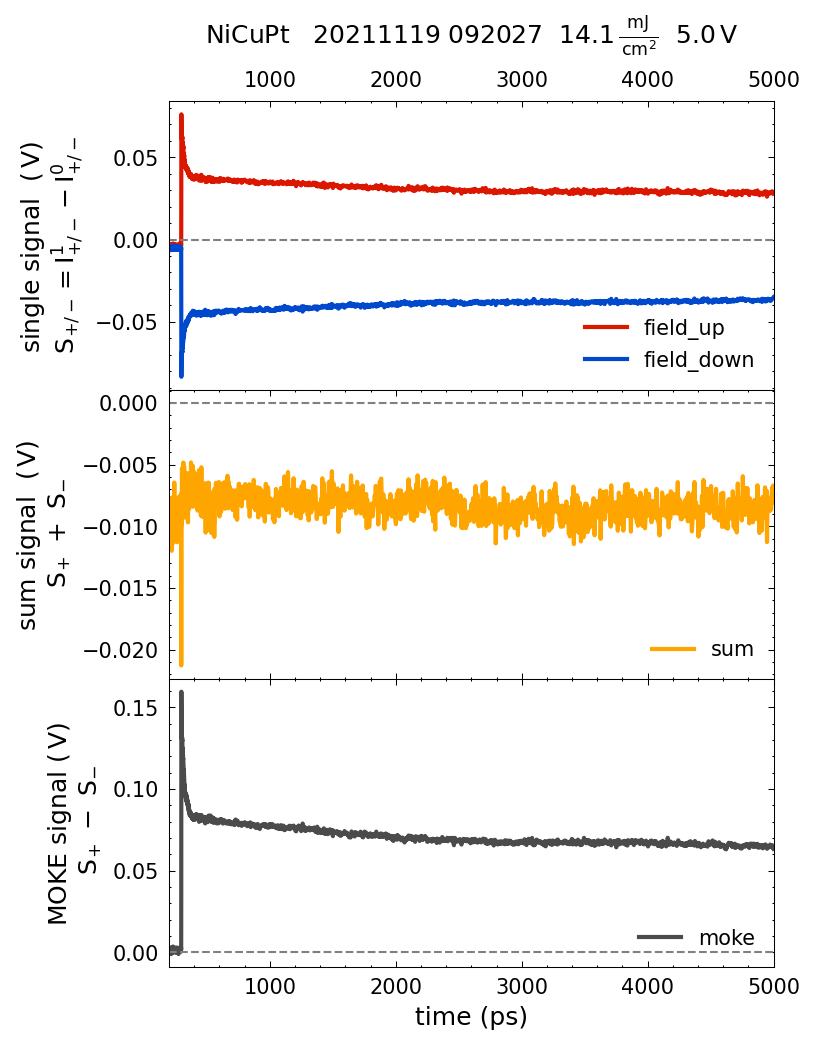
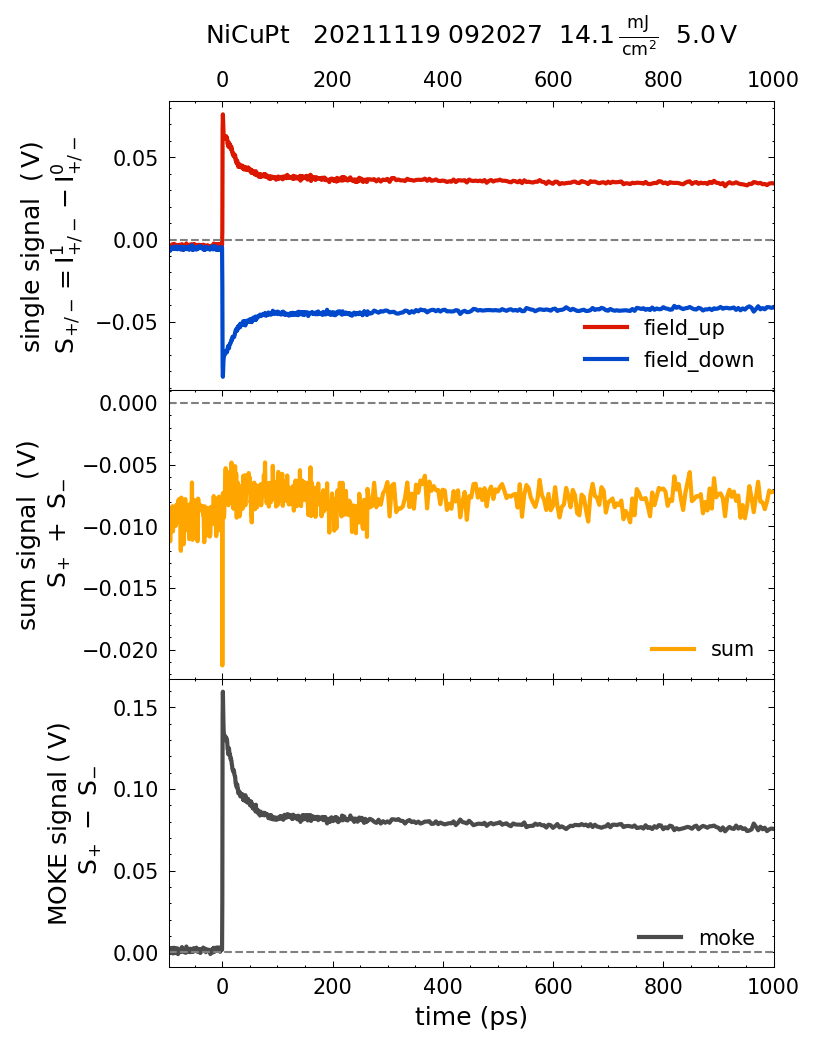
continue moke

diff --git a/udkm/moke/functions.py b/udkm/moke/functions.py
@@ -91,6 +91,9 @@ def load_overview_data(params):
 
     scan["date"] = params["date"]
     scan["time"] = params["time"]
+    scan["sample"] = params["sample"]
+    scan["voltage"] = params["voltage"]
+    scan["id"] = params["id"]
 
     if params["bool_t0_shift"]:
 
@@ -112,7 +115,7 @@ def load_overview_data(params):
     return scan
 
 
-def plot_overview(scan, params):
+def plot_overview(scan, **params):
 
     plt.figure(figsize=(5.2, 5.2/0.68))
     gs = gridspec.GridSpec(3, 1, wspace=0, hspace=0)
@@ -148,15 +151,16 @@ def plot_overview(scan, params):
     ax1.xaxis.set_ticks_position('top')
     ax2.set_xticklabels([])
 
-    title_text = params["sample"] + "   " + params["date"]+" "+params["time"] + "  " + \
+    title_text = scan["sample"] + "   " + scan["date"]+" "+scan["time"] + "  " + \
         str(np.round(scan["fluence"], 1)) + r"$\mathrm{\,\frac{mJ}{\,cm^2}}$" + "  " + \
-        str(params["voltage"]) + r"$\,$V"
+        str(scan["voltage"]) + r"$\,$V"
 
     scan["title_text"] = params["title_text"] = title_text
     ax1.set_title(scan["title_text"], pad=13)
 
-    if params["bool_save_plot"]:
-        plt.savefig(params["plot_path"] + params["id"] + ".png", dpi=150)
+    if "bool_save_plot" in params:
+        if params["bool_save_plot"]:
+            plt.savefig(params["plot_path"] + scan["id"] + ".png", dpi=150)
 
 
 def save_scan(scan, params):

diff --git a/udkm/moke/example/example1_standard_moke.py b/udkm/moke/example/example1_standard_moke.py
@@ -56,11 +56,12 @@ def load_overview_data(params):
 
 
 params = moke.get_scan_parameter(parameter_file_name, line)
-params["bool_t0_shift"] = False
+params["bool_t0_shift"] = True
 params["bool_save_plot"] = True
 params["t0_column_name"] = "moke"
 params["plot_path"] = "plot_overview//"
 params["scan_path"] = "scan_export//"
+params["t_max"] = 1000
 scan = moke.load_overview_data(params)
 
 # if "fluence" in params:
